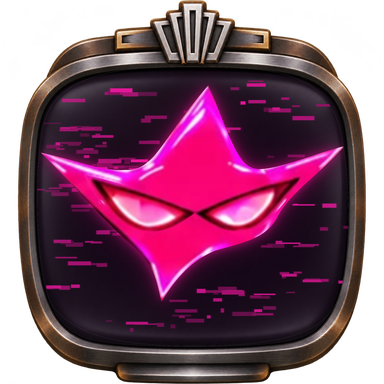
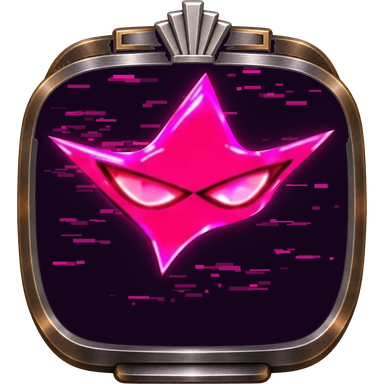
AI screens: Daniele's bronze/steel frame (2026-11-17) around every ai-clean portrait
build_heroes_1117.py screens(): frame cleaned to a halo-free alpha (derivative next to the source in References), glass found by flood fill, portrait contained and clipped to its rounded corners, crest uncropped. 10 ai_screen_<f>[_blink].png rebuilt; VERSUS (the only user of ai_screen_path) picks them up unchanged.

diff --git a/tools/units/build_heroes_1117.py b/tools/units/build_heroes_1117.py
@@ -6,7 +6,7 @@
 One shared crop for all five heroes, so the lineup's relative sizes hold in every picture (feet on one row).
 usage (repo root): python tools/units/build_heroes_1117.py"""
 import numpy as np
-from PIL import Image
+from PIL import Image, ImageChops, ImageFilter
 
 REF = "H:/My Drive/PROJECTS/Ooze Syndicate/References/Art direction 2026-11 - syndicate uniforms/MODEL-DIRECTION-2026-11-16/"
 OUT = "assets/art/ui/"
@@ -54,23 +54,78 @@ def heroes():
         Image.fromarray(w).save(f"{OUT}hero_neon_{f}.png", optimize=True)
 
 
+FRAME_DIR = REF + "ai-screen-frame-2026-11-17/"
+FRAME_SRC = FRAME_DIR + "ai-screen-frame-daniele-2026-11-17.webp"
+FRAME_CLEAN = FRAME_DIR + "ai-screen-frame-daniele-2026-11-17_clean-alpha.png"   # derivative next to the immutable source
+
+
+def clean_frame():
+    """Daniele's frame (2026-11-17) with a clean alpha: the webp's alpha is ~252 across the metal and soft at the rim, with dark / white
+    contamination in the rim's colour. Fully opaque where >= 200, transparent where < 24, and every soft rim texel takes the colour of its
+    nearest solid texel (no halo on any background)."""
+    from scipy import ndimage
+    a = np.asarray(Image.open(FRAME_SRC).convert("RGBA")).copy()
+    al = a[..., 3]
+    solid = al >= 200
+    idx = ndimage.distance_transform_edt(~solid, return_distances=False, return_indices=True)
+    rgb = a[..., :3][idx[0], idx[1]]
+    out = np.zeros_like(a)
+    out[..., :3] = rgb
+    out[..., 3] = np.where(solid, 255, np.where(al < 24, 0, ((al.astype(np.float32) - 24) / 176 * 255).clip(0, 255))).astype(np.uint8)
+    out[out[..., 3] == 0, :3] = 0
+    im = Image.fromarray(out)
+    im.save(FRAME_CLEAN, optimize=True)
+    return im, a
+
+
+def screen_mask(im):
+    """The dark purple glass: the flood-filled dark region from the centre (frame metal is brighter)."""
+    from scipy import ndimage
+    a = np.asarray(im).astype(np.float32)
+    dark = (a[..., :3].max(-1) < 62) & (a[..., 3] > 200)
+    lab, _ = ndimage.label(dark)
+    m = lab == lab[a.shape[0] // 2, a.shape[1] // 2]
+    return ndimage.binary_fill_holes(m)
+
+
 def screens():
-    back, bezel, glitch = load("ai-clean/SCREEN-BACK.png"), load("ai-clean/SCREEN-BEZEL.png"), load("ai-clean/GLITCH-OVERLAY.png")
-    bb = over(back, bezel).getchannel("A").point(lambda v: 255 if v > 16 else 0).getbbox()
-    side = max(bb[2] - bb[0], bb[3] - bb[1])
-    cx, cy = (bb[0] + bb[2]) // 2, (bb[1] + bb[3]) // 2
+    from scipy import ndimage
+    frame, _ = clean_frame()
+    m = screen_mask(frame)
+    ys, xs = np.nonzero(m)
+    mb = (xs.min(), ys.min(), xs.max() + 1, ys.max() + 1)
+    mm = Image.fromarray((ndimage.binary_erosion(m, iterations=2) * 255).astype(np.uint8)).filter(ImageFilter.GaussianBlur(1.2))
+    back, glitch = load("ai-clean/SCREEN-BACK.png"), load("ai-clean/GLITCH-OVERLAY.png")
+    bb = back.getchannel("A").point(lambda v: 255 if v > 16 else 0).getbbox()
+    print("frame glass bbox", mb, "portrait screen bbox", bb)
+    fb = frame.getchannel("A").getbbox()
+    side = max(fb[2] - fb[0], fb[3] - fb[1])
+    cx, cy = (fb[0] + fb[2]) // 2, (fb[1] + fb[3]) // 2
     crop = (cx - side // 2, cy - side // 2, cx - side // 2 + side, cy - side // 2 + side)
-    print("screen bbox", bb, "crop", crop)
+    k = min((mb[2] - mb[0]) / (bb[2] - bb[0]), (mb[3] - mb[1]) / (bb[3] - bb[1])) * 0.93     # contain: the whole portrait stays inside the glass (rounded corners still clip the glitch lines)
+    ox = (mb[0] + mb[2]) / 2 - (bb[0] + bb[2]) / 2 * k
+    oy = (mb[1] + mb[3]) / 2 - (bb[1] + bb[3]) / 2 * k
+    glass = Image.new("RGBA", frame.size, (22, 4, 28, 0))
+    glass.putalpha(mm)
+    holed = frame.copy()
+    holed.putalpha(ImageChops.multiply(frame.getchannel("A"), ImageChops.invert(mm)))
     for f, n in AI.items():
         for tag, eyes in (("", "EYES"), ("_blink", "EYES-CLOSED")):
-            im = back
+            im = Image.new("RGBA", back.size, (0, 0, 0, 0))
             im = over(im, tint(glitch, GLITCH[f]))
             for layer in ("GLOW", "BODY", eyes):
                 im = over(im, load(f"ai-clean/{n}-{layer}.png"))
-            im = over(im, bezel)
-            im.crop(crop).resize((SCREEN_PX, SCREEN_PX), Image.LANCZOS).save(f"{OUT}ai_screen_{f}{tag}.png", optimize=True)
+            im = im.resize((round(im.width * k), round(im.height * k)), Image.LANCZOS)
+            cv = Image.new("RGBA", frame.size, (0, 0, 0, 0))
+            cv.paste(im, (round(ox), round(oy)))
+            r, g, b, a = cv.split()
+            cv = Image.merge("RGBA", (r, g, b, ImageChops.multiply(a, mm)))        # clipped to the glass's rounded corners
+            full = over(glass, cv)
+            full = over(full, holed)       # the frame over the portrait, its glass punched out
+            full.crop(crop).resize((SCREEN_PX, SCREEN_PX), Image.LANCZOS).save(f"{OUT}ai_screen_{f}{tag}.png", optimize=True)
 
 
 if __name__ == "__main__":
-    heroes()
+    if "--screens-only" not in __import__("sys").argv:
+        heroes()
     screens()
